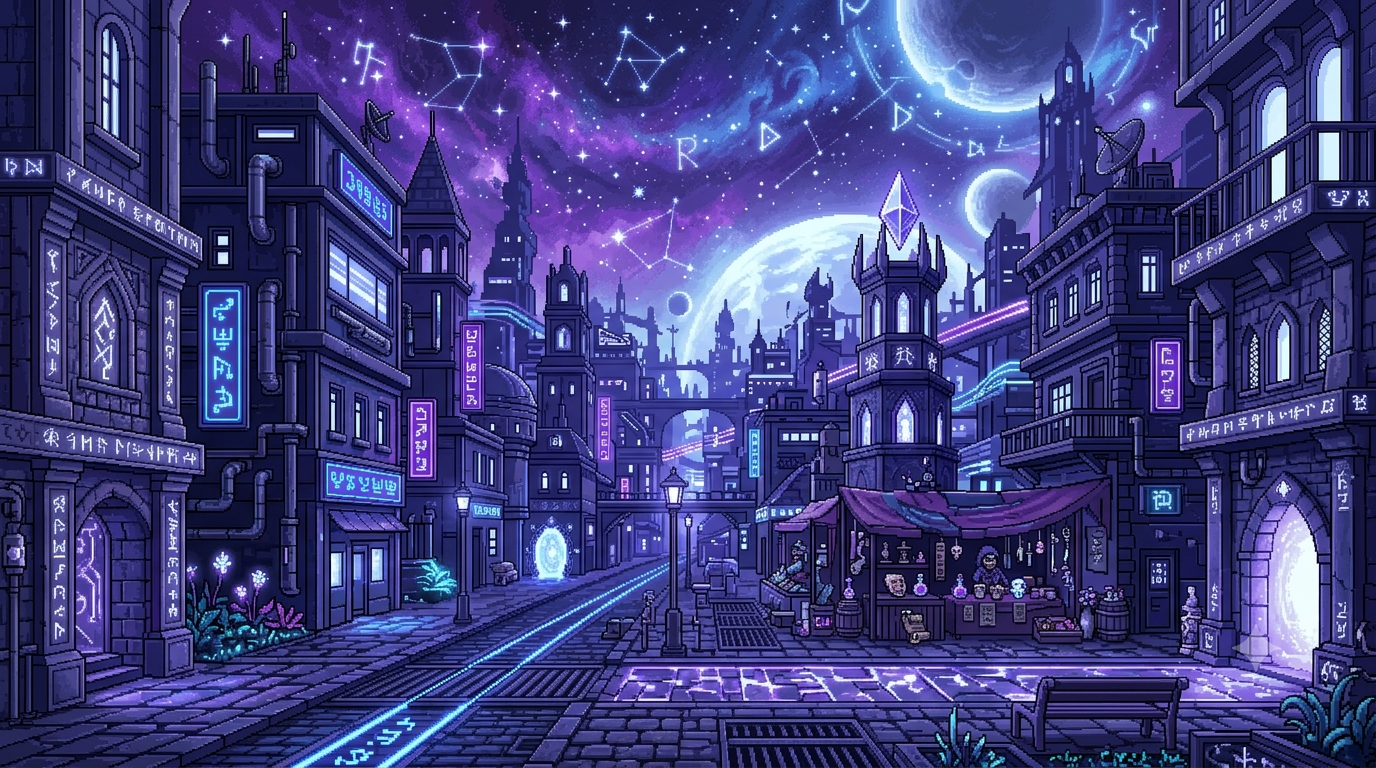
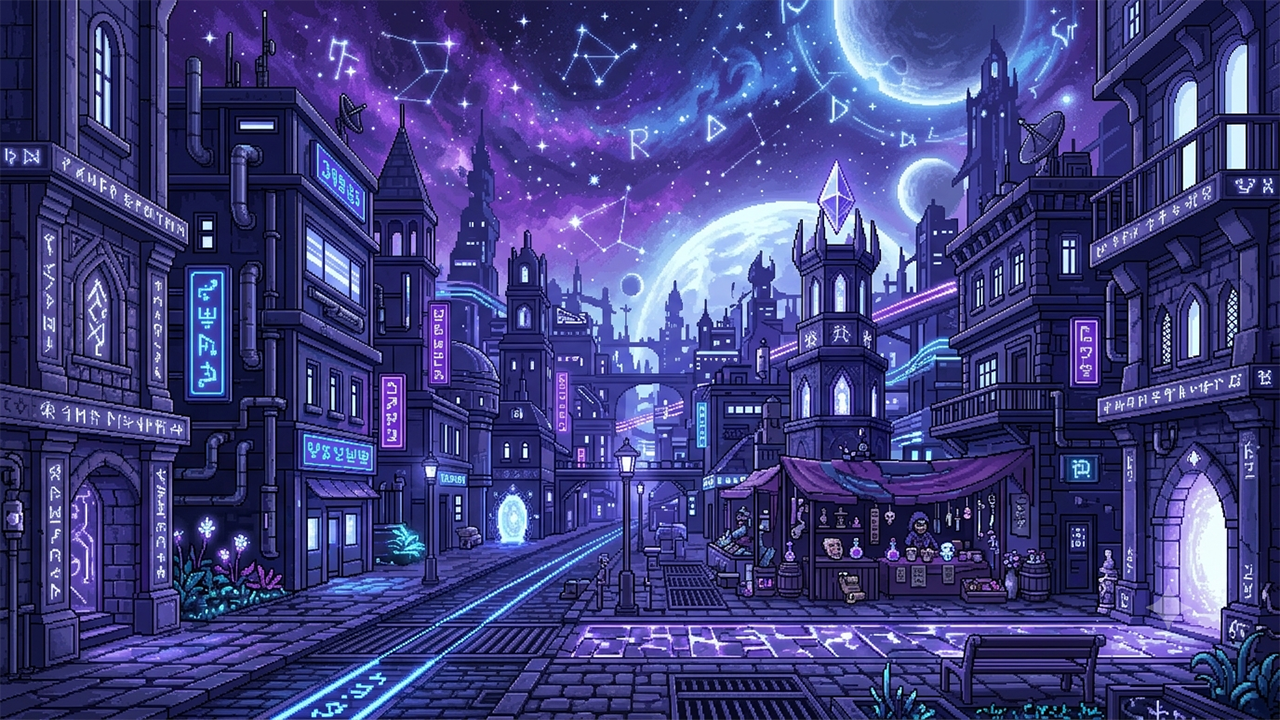
Seleção personagens

Changed region(s): [[0.75, 0.3972, 0.7812, 0.4278]]

diff --git a/programacao/interface/ui.py b/programacao/interface/ui.py
@@ -14,39 +14,79 @@ WIDTH, HEIGHT = 1280, 720
 screen = pygame.display.set_mode((WIDTH, HEIGHT))
 pygame.display.set_caption("Menu")
 
+# FPS
 clock = pygame.time.Clock()
 
-# Imagens
-background = pygame.image.load(r"programacao\interface\assets\background.png").convert()
 
-botao = pygame.image.load(r"programacao\interface\assets\ai-made\jogar_button.png").convert_alpha()
+
+# Imagens
+logo = pygame.image.load(r"")
+
+background = pygame.image.load(r"programacao\interface\assets\background.png").convert()
 
 painel = pygame.image.load(r"programacao\interface\assets\ai-made\menu_frame.png").convert_alpha()
 
+painel = pygame.transform.scale(
+    painel,
+    (painel.get_width() * 2.5, painel.get_height() * 2.5)
+)
+
+painel_rect = painel.get_rect(center=(WIDTH / 2, (HEIGHT / 2) + 100))
+
+botao_jogar = pygame.image.load(r"programacao\interface\assets\ai-made\jogar_button.png").convert_alpha()
+
+botao_jogar = pygame.transform.scale(
+    botao_jogar,
+    (botao_jogar.get_width() * 2.4, botao_jogar.get_height() * 2.4)
+)
+
+botao_jogar_rect = botao_jogar.get_rect(center=(painel_rect.centerx, painel_rect.centery - 74))
+
+botao_sair = pygame.image.load(r"programacao\interface\assets\ai-made\sair_button.png").convert_alpha()
+
+botao_sair = pygame.transform.scale(
+    botao_sair,
+    (botao_sair.get_width() * 2.4, botao_sair.get_height() * 2.4)
+)
+
+botao_sair_rect = botao_sair.get_rect(center=(painel_rect.centerx, painel_rect.centery - 8))
+
 # Fonte
 fonte = pygame.font.SysFont(None, 40)
-
-# Posição do botão
-botao_rect = botao.get_rect(topleft=(100, 500))
-painel_rect = painel.get_rect(topleft=(100, 500))
 
 running = True
 
 while running:
 
-    # Eventos
     for event in pygame.event.get():
         if event.type == pygame.QUIT:
             running = False
 
+        # Clique do mouse
+        if event.type == pygame.MOUSEBUTTONDOWN:
+            if event.button == 1: 
+
+            # Botão sair
+             if botao_sair_rect.collidepoint(event.pos):
+                running = False
+
+            # Ir para tela de seleção de personagens
+             if botao_jogar_rect.collidepoint(event.pos):
+                import selecao_personagens
+                selecao_personagens.main()
+                running = False
+
     # Desenha o fundo
     screen.blit(background, (0, 0))
 
-    # Desenha o botão
-    screen.blit(botao, botao_rect)
-
+    # Desenha o painel
     screen.blit(painel, painel_rect)
 
+    # Desenha o botão jogar
+    screen.blit(botao_jogar, botao_jogar_rect)
+
+    # Desenha o botão sair
+    screen.blit(botao_sair, botao_sair_rect)
 
     # Atualiza a tela
     pygame.display.flip()

diff --git a/programacao/personagens.py b/programacao/personagens.py
@@ -8,7 +8,7 @@ Cada personagem é armazenado em um dicionário
 com seus atributos básicos, passiva e habilidades.
 """
 
-import base as b
+import base as b 
 import random
 
 from habilidades import (